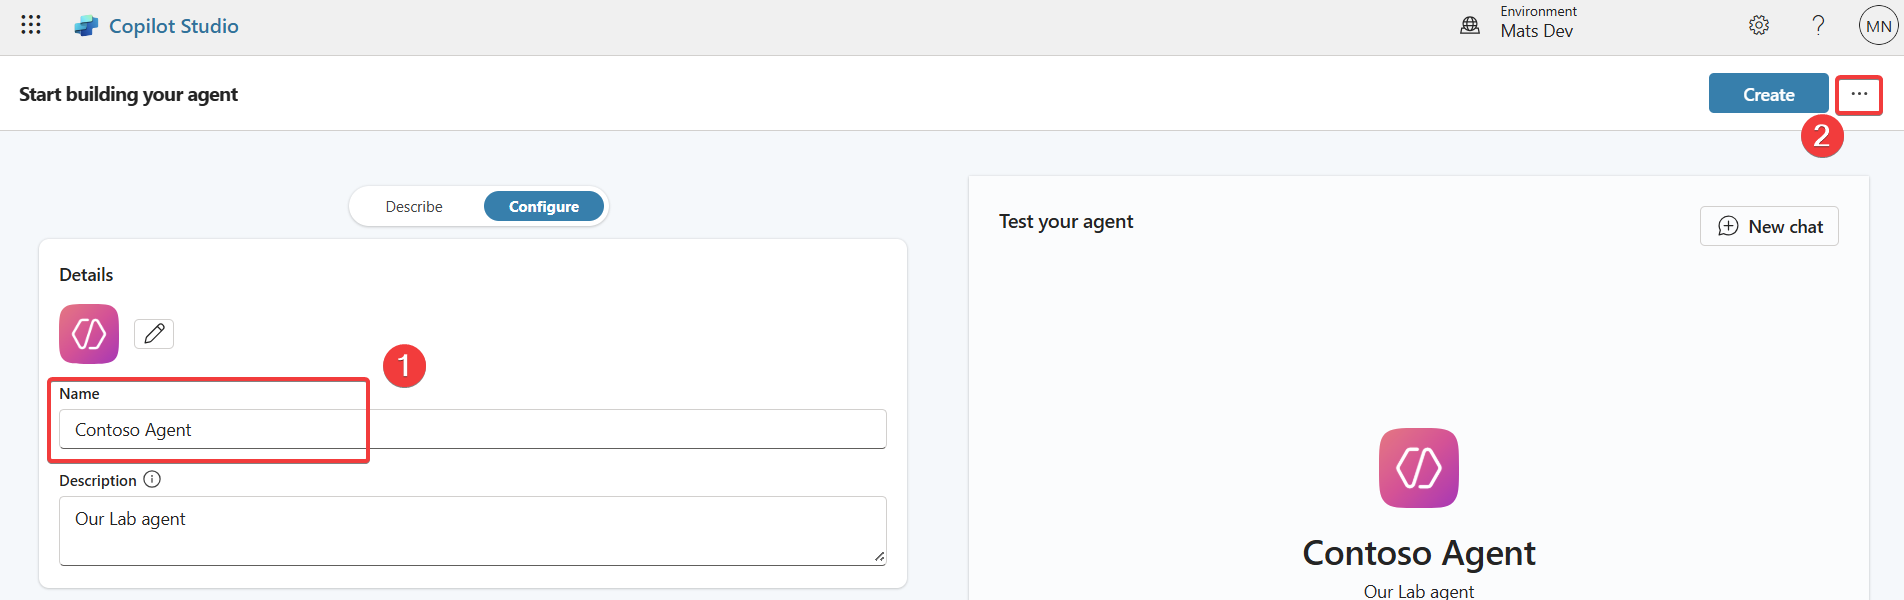
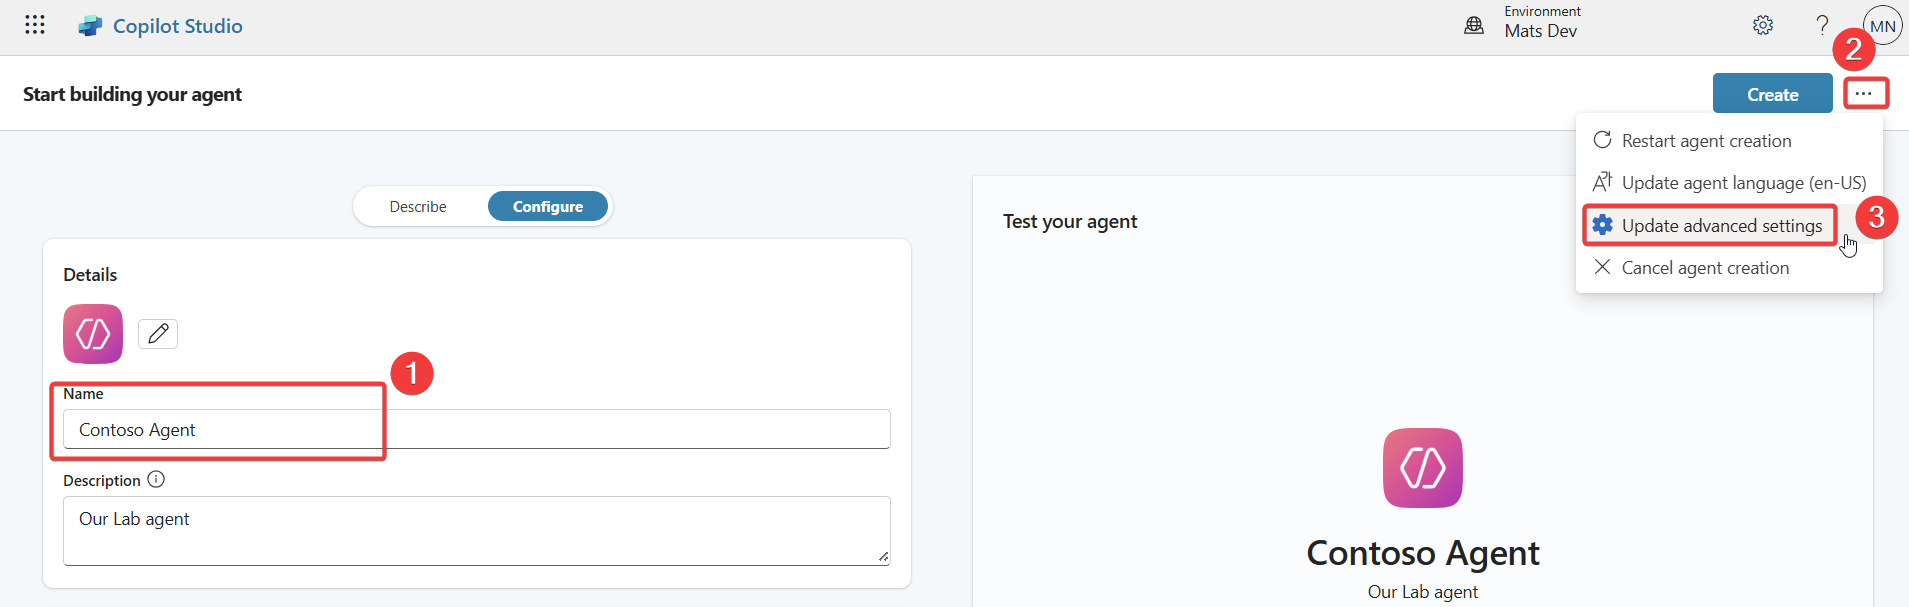
Lab02 - Fixed image

diff --git a/docs/lab-02/index.md b/docs/lab-02/index.md
@@ -13,7 +13,7 @@ In this lab, you will go through the following tasks:
 
 Best Practice for everything in the Power Platform: Work INSIDE solutions. They are great for organizing your customizations and some features only work here plus they over ALM capabilities (remember from last lab?).
 
-Because of that our first step within **[make.powerapps.com](https://make.apps.com)** is to navigate to **Solutions** on the left hand side and click on **New Solution**
+Because of that our first step within **[make.powerapps.com](https://make.powerapps.com)** is to navigate to **Solutions** on the left hand side and click on **New Solution**
 
 !["Create new solution"](./assets/lab03_conblank_01_createsolution.png)
 
@@ -31,6 +31,17 @@ Congrats you have a solution for doing our Agent development! Every journey star
 Now we are going to create our agent. Navigate to your newly created solution select **New** -> **Agent** -> **Agent**, this will redirect you to Copilot Studio where all the agent magic happens.
 
 !["Create agent"](./assets/lab02_01_createagent.png)
+
+
+### Copilot Studio
+
+Now we are in the Agent editing experience. First step give the agent a name. If you started in the solution to create the agent it will already be linked, if you started in Copilot Studio you connect the Agent with our solution, for this select the three dots and select **Update advanced settings**.
+
+!["Create Agent in Copilot Studio"](./assets/lab02_01_copilotstudio1.png)
+
+Select the solution you created before and press **Update**. Now your agent is attached to your solution.
+
+!["Connect with a solution"](./assets/lab02_01_copilotstudio2.png)
 
 
 ## 🌐 Add a website as a knowledge source - Microsoft Learn (Mats)
